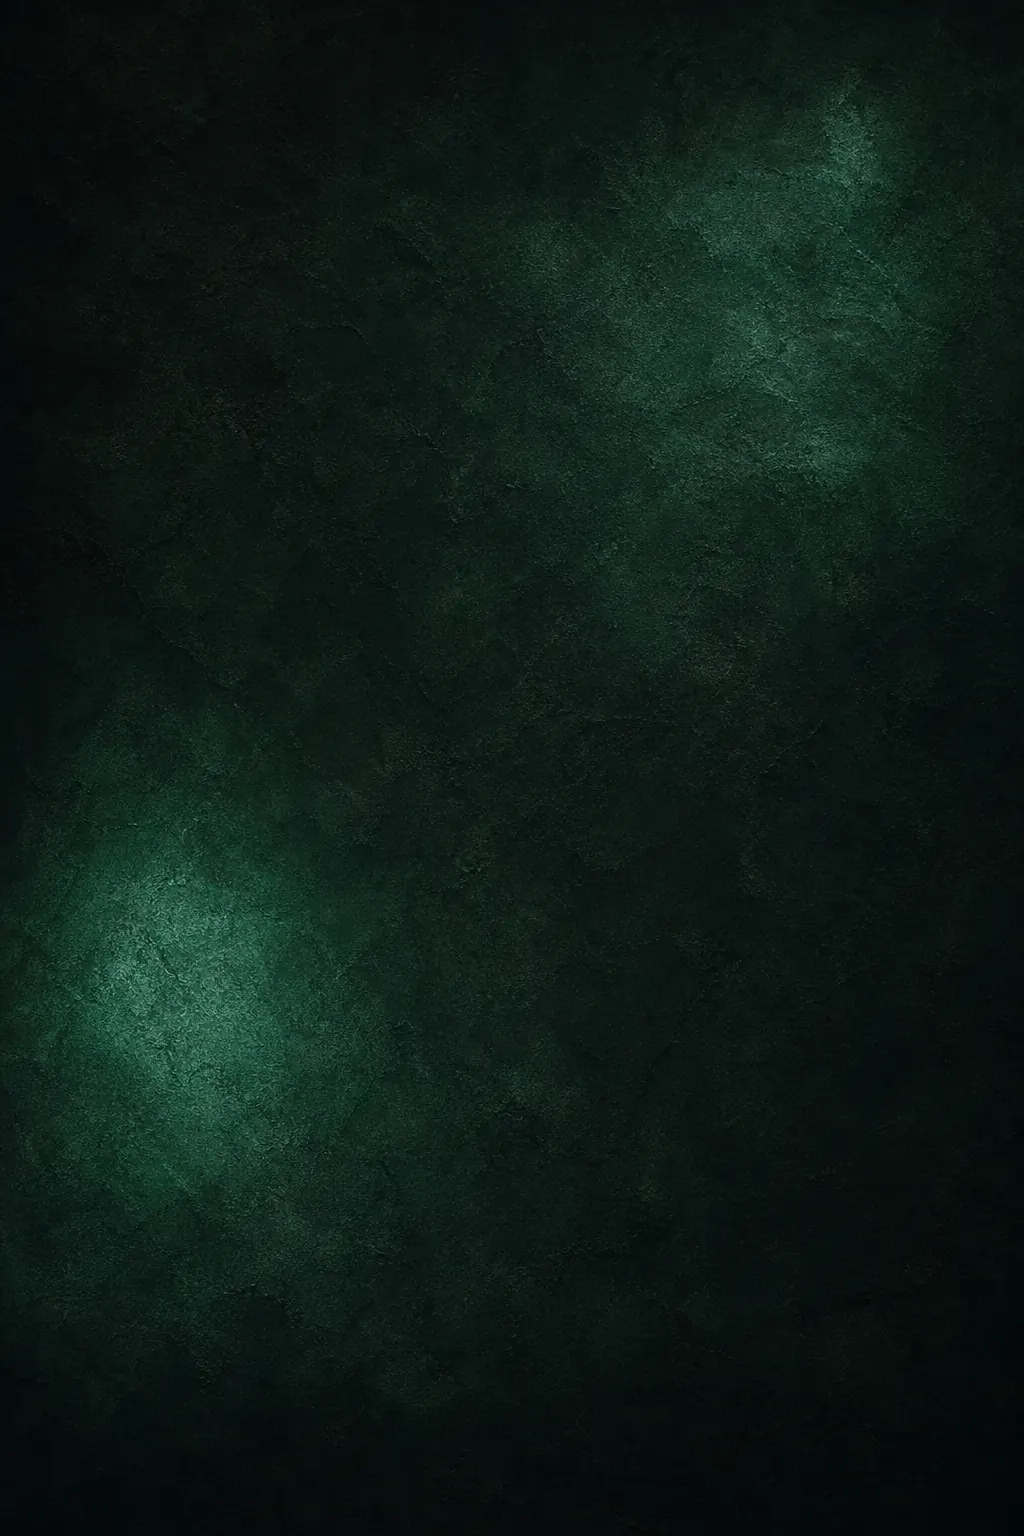
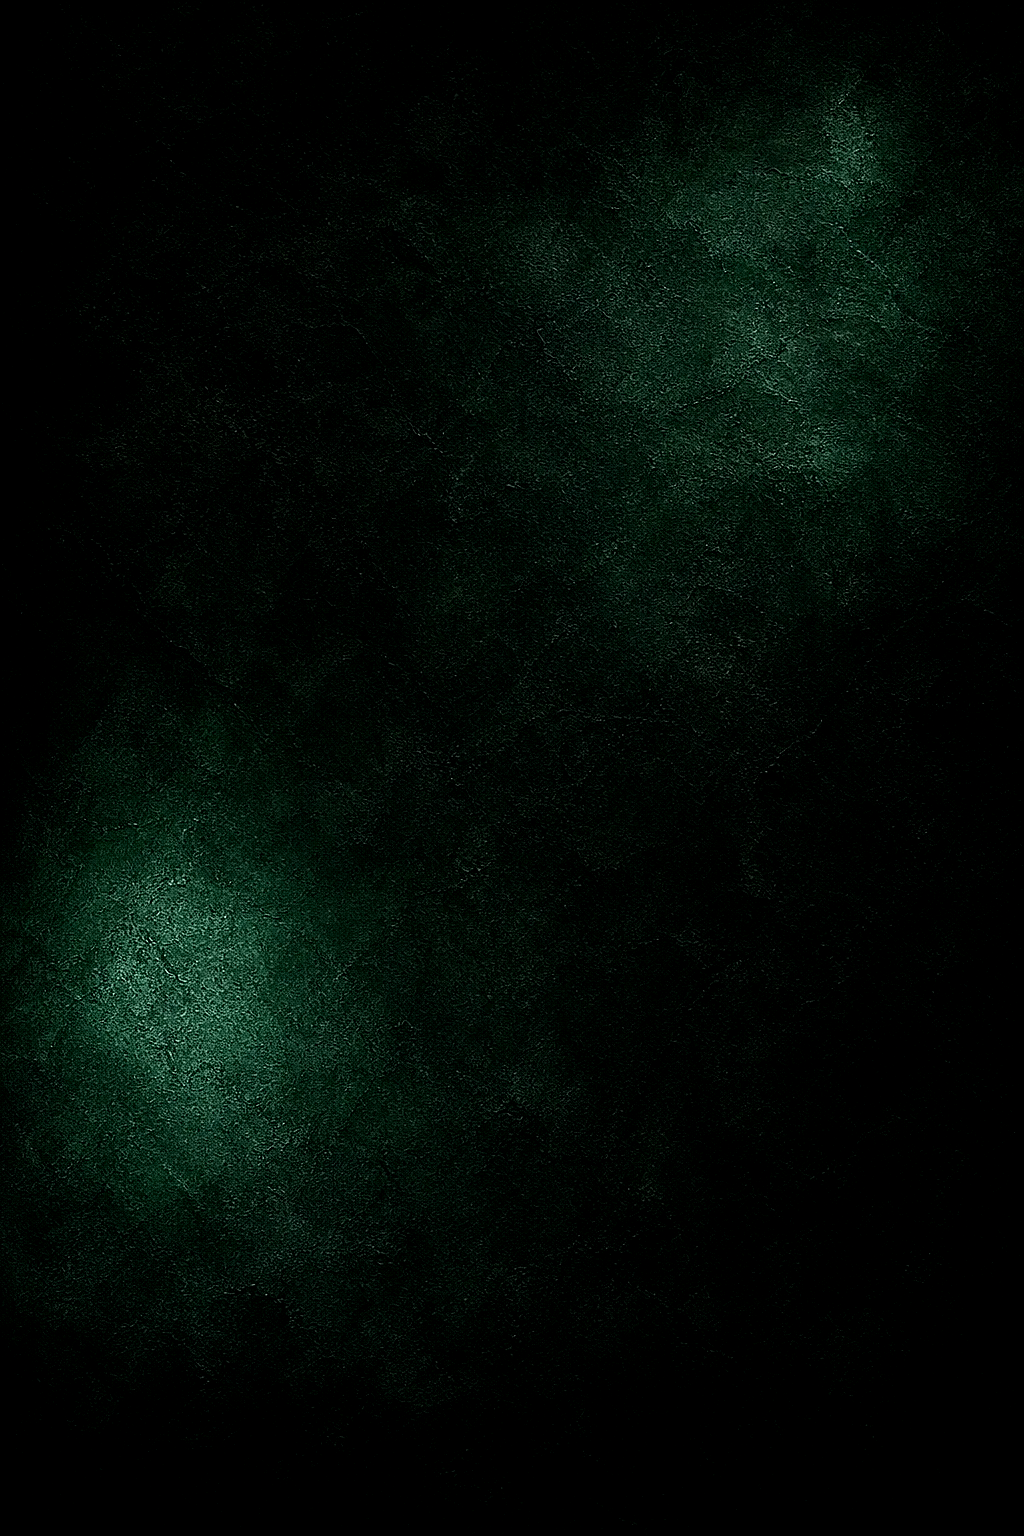
Expand sector media and scrolling background

diff --git a/assets/case-editorial.css b/assets/case-editorial.css
@@ -17,15 +17,6 @@ body{
   font-family:Arial,Helvetica,sans-serif;
   line-height:1.45;
   background-color:#04150f;
-  background-image:
-    linear-gradient(180deg,rgba(1,11,8,.48),rgba(1,11,8,.65)),
-    radial-gradient(ellipse 62% 44% at 9% 42%,rgba(39,112,81,.27),transparent 73%),
-    radial-gradient(ellipse 56% 39% at 83% 68%,rgba(35,92,68,.18),transparent 76%),
-    url("editorial-emerald-background.webp");
-  background-position:center,center,center,center top;
-  background-repeat:no-repeat,no-repeat,no-repeat,no-repeat;
-  background-size:auto,auto,auto,cover;
-  background-attachment:fixed,fixed,fixed,fixed;
 }
 button,input,textarea{font:inherit}
 a{color:inherit}
@@ -56,10 +47,18 @@ figure{margin:0}
   min-height:100vh;
   margin-left:100px;
   overflow:hidden;
-  background-color:rgba(3,20,14,.15);
+  background-color:#061b14;
   background-image:
+    linear-gradient(180deg,rgba(2,14,10,.17),rgba(2,14,10,.28)),
+    radial-gradient(ellipse 58% 35% at 11% 31%,rgba(47,118,84,.2),transparent 76%),
+    radial-gradient(ellipse 52% 32% at 88% 72%,rgba(35,101,75,.16),transparent 78%),
+    url("editorial-emerald-background.webp"),
     repeating-linear-gradient(90deg,transparent 0,transparent 259px,var(--case-faint) 260px),
     repeating-linear-gradient(0deg,transparent 0,transparent 259px,var(--case-faint) 260px);
+  background-position:center top,center 15%,center 71%,center top,center top,center top;
+  background-repeat:repeat-y,repeat-y,repeat-y,repeat-y,repeat,repeat;
+  background-size:auto,auto,auto,100% auto,auto,auto;
+  background-attachment:scroll,scroll,scroll,scroll,scroll,scroll;
 }
 .case-main::before,
 .case-main::after{position:absolute;z-index:0;content:"";pointer-events:none}

diff --git a/majlis/index.html b/majlis/index.html
@@ -33,7 +33,7 @@
     <section class="brand-feature editorial-grid" aria-labelledby="majlis-feature-title">
       <div class="section-inner">
         <div class="brand-visuals" aria-hidden="true">
-          <figure class="visual-main"><img src="../assets/majlis-graded.webp" alt="" loading="lazy"></figure>
+          <figure class="visual-main"><img src="../assets/majlis-interior.webp" alt="" loading="lazy"></figure>
           <figure class="visual-detail"><img src="../assets/majlis-detail-graded.webp" alt="" loading="lazy"></figure>
         </div>
         <div class="brand-copy">
@@ -52,7 +52,7 @@
 
     <section class="category-showcase editorial-grid" id="reserve" aria-labelledby="majlis-category-title">
       <div class="category-frame">
-        <figure class="category-media"><img src="../assets/majlis-graded.webp" alt="Majlis dining room lit for evening service" loading="lazy"></figure>
+        <figure class="category-media"><img src="../assets/majlis-moments-01.webp" alt="Majlis dining room lit for evening service" loading="lazy"></figure>
         <div class="category-copy">
           <p class="eyebrow">Reservation direction</p>
           <h2 id="majlis-category-title">CHOOSE THE EVENING BEFORE THE FORM.</h2>
@@ -69,7 +69,7 @@
 
     <section class="service-canvas editorial-grid" aria-labelledby="majlis-service-title">
       <div class="service-frame">
-        <figure class="service-photo"><img src="../assets/majlis-detail-graded.webp" alt="A candlelit table and patterned screen for a private dinner" loading="lazy"></figure>
+        <figure class="service-photo"><img src="../assets/majlis-moments-02.webp" alt="A candlelit table and patterned screen for a private dinner" loading="lazy"></figure>
         <div class="service-panel">
           <span class="service-title" aria-hidden="true">SERVICE PROCESS</span>
           <span class="service-page">02 / 06</span>
@@ -92,11 +92,11 @@
     <footer class="micro-footer">
       <div class="footer-tiles">
         <section class="footer-tile">
-          <img src="../assets/majlis-detail-graded.webp" alt="Candlelit restaurant table ready for a group" loading="lazy">
+          <img src="../assets/majlis-moments-03.webp" alt="Warm evening dining room ready for a group" loading="lazy">
           <div class="footer-tile-copy"><div><p class="eyebrow">Event route</p><h2>PRIVATE DINING BEGINS WITH A USEFUL BRIEF.</h2></div><a class="text-link" href="mailto:[email redacted]?subject=Majlis%20website%20direction">Discuss direction <span aria-hidden="true">&rarr;</span></a></div>
         </section>
         <section class="footer-tile">
-          <img src="../assets/majlis-graded.webp" alt="Majlis No. 8 restaurant interior" loading="lazy">
+          <img src="../assets/majlis-moments-04.webp" alt="Lantern, arch and private dining table at Majlis" loading="lazy">
           <div class="footer-tile-copy"><div><p class="eyebrow">Majlis No. 8</p><h2>A RESTAURANT JOURNEY WITH A CLEAR NEXT MOVE.</h2></div><p>Independent concept UI work.</p></div>
         </section>
       </div>

diff --git a/nadwa/index.html b/nadwa/index.html
@@ -33,7 +33,7 @@
     <section class="brand-feature editorial-grid" aria-labelledby="nadwa-feature-title">
       <div class="section-inner">
         <div class="brand-visuals" aria-hidden="true">
-          <figure class="visual-main"><img src="../assets/nadwa-graded.webp" alt="" loading="lazy"></figure>
+          <figure class="visual-main"><img src="../assets/nadwa-tableware.webp" alt="" loading="lazy"></figure>
           <figure class="visual-detail"><img src="../assets/nadwa-detail-graded.webp" alt="" loading="lazy"></figure>
         </div>
         <div class="brand-copy">
@@ -52,7 +52,7 @@
 
     <section class="category-showcase editorial-grid" id="table-builder" aria-labelledby="nadwa-category-title">
       <div class="category-frame">
-        <figure class="category-media"><img src="../assets/nadwa-graded.webp" alt="Porcelain, brass and textiles arranged for Arabic hosting" loading="lazy"></figure>
+        <figure class="category-media"><img src="../assets/nadwa-moments-01.webp" alt="Porcelain bowls and a brass serving tray arranged for Arabic hosting" loading="lazy"></figure>
         <div class="category-copy">
           <p class="eyebrow">Table builder</p>
           <h2 id="nadwa-category-title">A TABLE HAS A REASON.</h2>
@@ -69,7 +69,7 @@
 
     <section class="service-canvas editorial-grid" aria-labelledby="nadwa-service-title">
       <div class="service-frame">
-        <figure class="service-photo"><img src="../assets/nadwa-detail-graded.webp" alt="Brass coffee pot and porcelain detail for a Nadwa setting" loading="lazy"></figure>
+        <figure class="service-photo"><img src="../assets/nadwa-moments-02.webp" alt="Forest-green presentation box and porcelain cup for a Nadwa gift" loading="lazy"></figure>
         <div class="service-panel">
           <span class="service-title" aria-hidden="true">SERVICE PROCESS</span>
           <span class="service-page">02 / 06</span>
@@ -92,11 +92,11 @@
     <footer class="micro-footer">
       <div class="footer-tiles">
         <section class="footer-tile">
-          <img src="../assets/nadwa-detail-graded.webp" alt="Porcelain and brass for a group order" loading="lazy">
+          <img src="../assets/nadwa-moments-03.webp" alt="Candlelit tableware setting for a group dinner" loading="lazy">
           <div class="footer-tile-copy"><div><p class="eyebrow">Large orders</p><h2>Corporate and wedding gifting.</h2></div><a class="text-link" href="mailto:[email redacted]?subject=Nadwa%20website%20direction">Discuss direction <span aria-hidden="true">&rarr;</span></a></div>
         </section>
         <section class="footer-tile">
-          <img src="../assets/nadwa-graded.webp" alt="Nadwa Objects tableware setting" loading="lazy">
+          <img src="../assets/nadwa-moments-04.webp" alt="Brass coffee pot and ceramic serving bowl" loading="lazy">
           <div class="footer-tile-copy"><div><p class="eyebrow">Nadwa Objects</p><h2>QUIET COMMERCE FOR A SIGNIFICANT TABLE.</h2></div><p>Independent concept UI work.</p></div>
         </section>
       </div>

diff --git a/nocturne/index.html b/nocturne/index.html
@@ -33,7 +33,7 @@
     <section class="brand-feature editorial-grid" aria-labelledby="nocturne-feature-title">
       <div class="section-inner">
         <div class="brand-visuals" aria-hidden="true">
-          <figure class="visual-main"><img src="../assets/nocturne-graded.webp" alt="" loading="lazy"></figure>
+          <figure class="visual-main"><img src="../assets/nocturne-hero.webp" alt="" loading="lazy"></figure>
           <figure class="visual-detail"><img src="../assets/nocturne-detail-graded.webp" alt="" loading="lazy"></figure>
         </div>
         <div class="brand-copy">
@@ -52,7 +52,7 @@
 
     <section class="category-showcase editorial-grid" id="scent-finder" aria-labelledby="nocturne-category-title">
       <div class="category-frame">
-        <figure class="category-media"><img src="../assets/nocturne-graded.webp" alt="Nocturne fragrance bottle framed by dark velvet" loading="lazy"></figure>
+        <figure class="category-media"><img src="../assets/nocturne-moments-01.webp" alt="A sculptural fragrance bottle in deep emerald shadow" loading="lazy"></figure>
         <div class="category-copy">
           <p class="eyebrow">Scent finder</p>
           <h2 id="nocturne-category-title">CHOOSE THE MOMENT YOU KEEP.</h2>
@@ -69,7 +69,7 @@
 
     <section class="service-canvas editorial-grid" aria-labelledby="nocturne-service-title">
       <div class="service-frame">
-        <figure class="service-photo"><img src="../assets/nocturne-detail-graded.webp" alt="Fragrance bottle glass, dried iris and velvet detail" loading="lazy"></figure>
+        <figure class="service-photo"><img src="../assets/nocturne-moments-02.webp" alt="Resin, amber and fragrance materials on black stone" loading="lazy"></figure>
         <div class="service-panel">
           <span class="service-title" aria-hidden="true">SERVICE PROCESS</span>
           <span class="service-page">02 / 06</span>
@@ -92,11 +92,11 @@
     <footer class="micro-footer">
       <div class="footer-tiles">
         <section class="footer-tile">
-          <img src="../assets/nocturne-detail-graded.webp" alt="Nocturne perfume bottle detail" loading="lazy">
+          <img src="../assets/nocturne-moments-03.webp" alt="Nocturne discovery vials with scent cards" loading="lazy">
           <div class="footer-tile-copy"><div><p class="eyebrow">First purchase</p><h2>DISCOVERY SET BEFORE THE FULL BOTTLE.</h2></div><a class="text-link" href="mailto:[email redacted]?subject=Nocturne%20website%20direction">Discuss direction <span aria-hidden="true">&rarr;</span></a></div>
         </section>
         <section class="footer-tile">
-          <img src="../assets/nocturne-graded.webp" alt="Nocturne fragrance collection" loading="lazy">
+          <img src="../assets/nocturne-moments-04.webp" alt="A perfume refill ritual on deep green velvet" loading="lazy">
           <div class="footer-tile-copy"><div><p class="eyebrow">Nocturne</p><h2>FRAGRANCE COMMERCE WITH ROOM TO DECIDE.</h2></div><p>Independent concept UI work.</p></div>
         </section>
       </div>

diff --git a/roastery/index.html b/roastery/index.html
@@ -33,7 +33,7 @@
     <section class="brand-feature editorial-grid" aria-labelledby="roastery-feature-title">
       <div class="section-inner">
         <div class="brand-visuals" aria-hidden="true">
-          <figure class="visual-main"><img src="../assets/roastery-graded.webp" alt="" loading="lazy"></figure>
+          <figure class="visual-main"><img src="../assets/roastery-coffee.webp" alt="" loading="lazy"></figure>
           <figure class="visual-detail"><img src="../assets/roastery-detail-graded.webp" alt="" loading="lazy"></figure>
         </div>
         <div class="brand-copy">
@@ -52,7 +52,7 @@
 
     <section class="category-showcase editorial-grid" id="roast-profile" aria-labelledby="roastery-category-title">
       <div class="category-frame">
-        <figure class="category-media"><img src="../assets/roastery-graded.webp" alt="Pour-over coffee preparation and roast detail" loading="lazy"></figure>
+        <figure class="category-media"><img src="../assets/roastery-moments-01.webp" alt="Roasted coffee beans and a brass scoop on green stone" loading="lazy"></figure>
         <div class="category-copy">
           <p class="eyebrow">Roast profile</p>
           <h2 id="roastery-category-title">CHOOSE THE CUP BEFORE THE COUNTRY.</h2>
@@ -69,7 +69,7 @@
 
     <section class="service-canvas editorial-grid" aria-labelledby="roastery-service-title">
       <div class="service-frame">
-        <figure class="service-photo"><img src="../assets/roastery-detail-graded.webp" alt="Coffee cup, beans and dripper in low light" loading="lazy"></figure>
+        <figure class="service-photo"><img src="../assets/roastery-moments-02.webp" alt="Slow pour-over coffee over a ceramic dripper" loading="lazy"></figure>
         <div class="service-panel">
           <span class="service-title" aria-hidden="true">SERVICE PROCESS</span>
           <span class="service-page">02 / 06</span>
@@ -92,11 +92,11 @@
     <footer class="micro-footer">
       <div class="footer-tiles">
         <section class="footer-tile">
-          <img src="../assets/roastery-detail-graded.webp" alt="Specialty coffee cup and dripper detail" loading="lazy">
+          <img src="../assets/roastery-moments-03.webp" alt="Unbranded specialty coffee bags and a ceramic cup" loading="lazy">
           <div class="footer-tile-copy"><div><p class="eyebrow">Business route</p><h2>WHOLESALE COFFEE STARTS WITH SERVICE.</h2></div><a class="text-link" href="mailto:[email redacted]?subject=Hinterland%20website%20direction">Discuss direction <span aria-hidden="true">&rarr;</span></a></div>
         </section>
         <section class="footer-tile">
-          <img src="../assets/roastery-graded.webp" alt="Hinterland coffee preparation" loading="lazy">
+          <img src="../assets/roastery-moments-04.webp" alt="Hinterland evening coffee counter" loading="lazy">
           <div class="footer-tile-copy"><div><p class="eyebrow">Hinterland Roastery</p><h2>COFFEE CHOICE WITH A REASON TO RETURN.</h2></div><p>Independent concept UI work.</p></div>
         </section>
       </div>